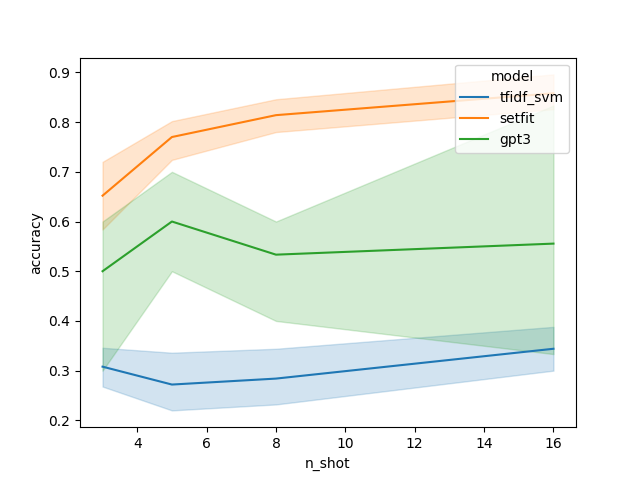
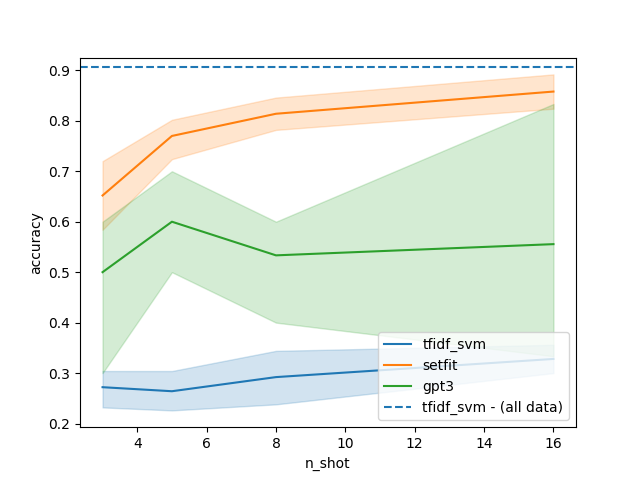
Add line for all data

diff --git a/src/create_graph.py b/src/create_graph.py
@@ -12,30 +12,46 @@ app = typer.Typer()
 def create_graph(results_path="results", figures_path="figures"):
     for dataset in os.listdir(results_path):
 
-        data = []
+        all_data = []
+        few_shot_data = []
         dataset_results_path = os.path.join(results_path, dataset)
         for model in os.listdir(dataset_results_path):
 
             model_results_path = os.path.join(dataset_results_path, model)
             for result_filename in os.listdir(model_results_path):
-                n_shot, _ = os.path.splitext(result_filename)
 
                 result_path = os.path.join(model_results_path, result_filename)
                 with open(result_path) as f:
                     result = json.loads(f.read())
 
-                for fold_result in result:
-                    data.append(
+                if result_filename == "all.json":
+                    all_data.append(
                         {
-                            "model": model,
-                            "n_shot": int(n_shot),
-                            "fold": fold_result["fold"],
-                            "accuracy": fold_result["metrics"]["accuracy"],
+                            "model": f"{model} - (all data)",
+                            "accuracy": result[0]["metrics"]["accuracy"],
                         }
                     )
+                else:
+                    n_shot, _ = os.path.splitext(result_filename)
 
-        data = pd.DataFrame(data)
-        line_plot = sns.lineplot(data, x="n_shot", y="accuracy", hue="model")
+                    for fold_result in result:
+                        few_shot_data.append(
+                            {
+                                "model": model,
+                                "n_shot": int(n_shot),
+                                "fold": fold_result["fold"],
+                                "accuracy": fold_result["metrics"]["accuracy"],
+                            }
+                        )
+
+        few_shot_data = pd.DataFrame(few_shot_data)
+        line_plot = sns.lineplot(few_shot_data, x="n_shot", y="accuracy", hue="model")
+
+        for result in all_data:
+            line_plot.axhline(result["accuracy"], linestyle="--", label=result["model"])
+
+        handles, labels = line_plot.get_legend_handles_labels()
+        line_plot.legend(handles, labels)
 
         fig = line_plot.get_figure()
         figure_path = os.path.join(figures_path, f"{dataset}.png")

diff --git a/src/train_tfidf_svm.py b/src/train_tfidf_svm.py
@@ -16,7 +16,7 @@ app = typer.Typer()
 @app.command()
 def train_tfidf_svm(
     data_path="imdb",
-    n_shot: int = 8,
+    n_shot: str = "8",
     n_folds: int = 5,
     test_size: int = 100,
     results_dir="results",
@@ -25,7 +25,11 @@ def train_tfidf_svm(
 
     results = []
     for fold in range(n_folds):
-        sample_dataset = sample_data(dataset, n_shot, test_size, fold)
+        if n_shot == "all":
+            sample_dataset = dataset
+        else:
+            n_shot = int(n_shot)
+            sample_dataset = sample_data(dataset, n_shot, test_size, fold)
 
         X_train, y_train = convert_data(sample_dataset["train"])
         X_test, y_test = convert_data(sample_dataset["test"])
